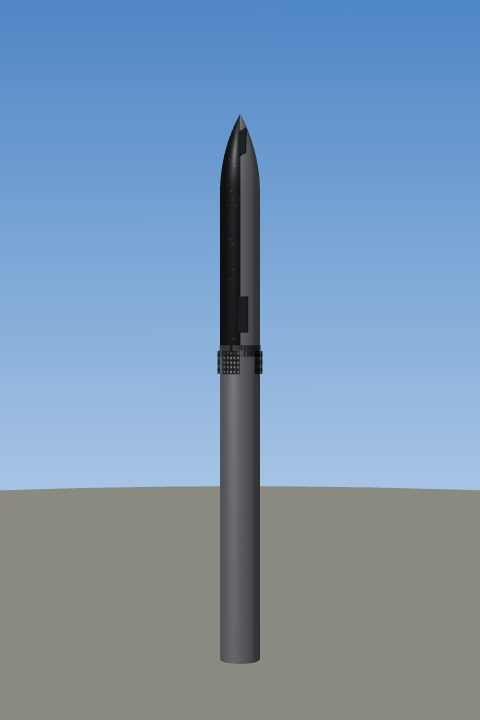
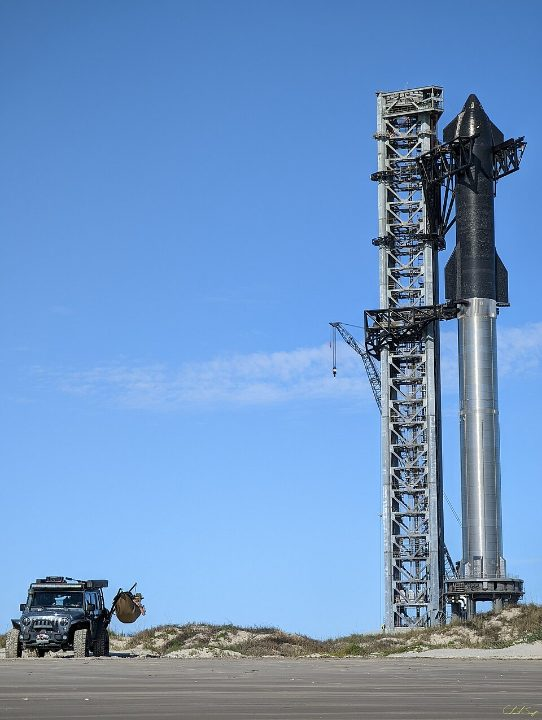
E03: photographs of the real vehicles in the placement test, credited
Claude-Session: https://claude.ai/code/session_01F6cUih7i5azqa9Aq3Y7ZPe

diff --git a/src/lessons/assessment/bank/basics.ts b/src/lessons/assessment/bank/basics.ts
@@ -9,15 +9,15 @@ const WHICH = T('Which launch vehicle is this?', 'Какая это ракета
 
 export const BASICS: readonly unknown[] = [
   vehicle('b-vehicle-distinct', 6, 1, 'vehicles', WHICH,
-    ['soyuz21a', 'falconheavy', 'starship', 'electron', 'atlasv551', 'pslvxl'],
-    T('Each has a shape of its own: Soyuz its four tapered strap-ons (the Korolev cross when they separate), Falcon Heavy three cores side by side, Starship a stainless-steel ship on a 71 m booster, Electron a slender black 18 m carbon-fibre rocket, Atlas V an orange core with slim white solid boosters, PSLV-XL six long strap-on boosters.',
-      'У каждой свой облик: у «Союза» четыре конических боковых блока («крест Королёва» при разделении), у Falcon Heavy три блока рядом, у Starship корабль из нержавеющей стали на 71-метровом ускорителе, у Electron тонкий чёрный 18-метровый корпус из углепластика, у Atlas V оранжевый центральный блок с тонкими белыми твердотопливными ускорителями, у PSLV-XL шесть длинных стартовых ускорителей.',
-      'แต่ละลำมีรูปทรงเฉพาะ: โซยุซมีบูสเตอร์ด้านข้างทรงเรียวสี่ท่อน (กางเป็น «กางเขนของโคโรเลฟ» ตอนแยกตัว) Falcon Heavy มีแกนสามแกนเรียงกัน Starship เป็นยานเหล็กกล้าไร้สนิมบนบูสเตอร์สูง 71 ม. Electron เป็นจรวดคาร์บอนไฟเบอร์สีดำเรียวสูง 18 ม. Atlas V มีลำตัวหลักสีส้มกับบูสเตอร์เชื้อเพลิงแข็งสีขาวเรียว และ PSLV-XL มีบูสเตอร์ยาวหกท่อน')),
+    ['soyuz21a', 'falconheavy', 'starship', 'electron', 'protonm', 'longmarch5'],
+    T('Each has a shape of its own: Soyuz its four tapered strap-ons (the Korolev cross when they separate), Falcon Heavy three cores side by side, Starship a stainless-steel ship on a 71 m booster, Electron a slender black 18 m carbon-fibre rocket, Proton-M a core ringed by six fuel tanks with their engines, Long March 5 a wide white 5 m core with four 3.35 m boosters.',
+      'У каждой свой облик: у «Союза» четыре конических боковых блока («крест Королёва» при разделении), у Falcon Heavy три блока рядом, у Starship корабль из нержавеющей стали на 71-метровом ускорителе, у Electron тонкий чёрный 18-метровый корпус из углепластика, у «Протона-М» центральный блок в кольце из шести баков с двигателями, у «Чанчжэн-5» широкий белый центральный блок диаметром 5 м с четырьмя ускорителями по 3,35 м.',
+      'แต่ละลำมีรูปทรงเฉพาะ: โซยุซมีบูสเตอร์ด้านข้างทรงเรียวสี่ท่อน (กางเป็น «กางเขนของโคโรเลฟ» ตอนแยกตัว) Falcon Heavy มีแกนสามแกนเรียงกัน Starship เป็นยานเหล็กกล้าไร้สนิมบนบูสเตอร์สูง 71 ม. Electron เป็นจรวดคาร์บอนไฟเบอร์สีดำเรียวสูง 18 ม. Proton-M มีลำตัวหลักล้อมด้วยถังเชื้อเพลิงหกถังพร้อมเครื่องยนต์ และ Long March 5 มีลำตัวหลักสีขาวกว้าง 5 ม. กับบูสเตอร์ 3.35 ม. สี่ท่อน')),
   vehicle('b-vehicle-similar', 6, 2, 'vehicles', WHICH,
-    ['falcon9', 'atlasv551', 'vulcan', 'ariane64', 'h3', 'longmarch5', 'angaraa5', 'longmarch2d'],
-    T('Look at the details: the number and size of the strap-ons (none on Falcon 9, five slim solids on Atlas V 551, four on Ariane 64 and Vulcan VC4, two on H3-22), the fairing\'s width against the core, and the core\'s colour and proportions.',
-      'Смотрите на детали: число и размер боковых ускорителей (у Falcon 9 их нет, у Atlas V 551 пять тонких твердотопливных, у Ariane 64 и Vulcan VC4 по четыре, у H3-22 два), ширину головного обтекателя относительно центрального блока, цвет и пропорции корпуса.',
-      'ให้สังเกตรายละเอียด: จำนวนและขนาดของบูสเตอร์ด้านข้าง (Falcon 9 ไม่มี, Atlas V 551 มีบูสเตอร์เชื้อเพลิงแข็งเรียวห้าท่อน, Ariane 64 และ Vulcan VC4 มีสี่, H3-22 มีสอง) ความกว้างของฝาครอบส่วนหัวเทียบกับลำตัว และสีกับสัดส่วนของลำตัว')),
+    ['falcon9', 'atlasv551', 'vulcan', 'angaraa5', 'longmarch2d', 'protonm'],
+    T('Look at the details: the strap-ons (none on Falcon 9 or Long March 2D, five slim white solids on Atlas V 551, four liquid modules as wide as the core on Angara-A5, six outboard tanks on Proton-M), the colour of the core (white Falcon 9, orange-brown Atlas V and Vulcan — Vulcan\'s wider and shorter), and the fairing\'s width against the core.',
+      'Смотрите на детали: боковые блоки (у Falcon 9 и «Чанчжэн-2D» их нет, у Atlas V 551 пять тонких белых твердотопливных, у «Ангары-А5» четыре жидкостных модуля того же диаметра, что центральный, у «Протона-М» шесть боковых баков), цвет центрального блока (белый у Falcon 9, оранжево-коричневый у Atlas V и Vulcan — у Vulcan он шире и короче) и ширину обтекателя относительно корпуса.',
+      'ให้สังเกตรายละเอียด: บูสเตอร์ด้านข้าง (Falcon 9 และ Long March 2D ไม่มี, Atlas V 551 มีบูสเตอร์เชื้อเพลิงแข็งสีขาวเรียวห้าท่อน, Angara-A5 มีโมดูลเชื้อเพลิงเหลวสี่ท่อนขนาดเท่าลำตัวหลัก, Proton-M มีถังรอบลำตัวหกถัง) สีของลำตัวหลัก (Falcon 9 สีขาว, Atlas V และ Vulcan สีส้มน้ำตาล — Vulcan อ้วนและสั้นกว่า) และความกว้างของฝาครอบส่วนหัวเทียบกับลำตัว')),
   choice('b-karman', 6, 1, K, 'space.boundary',
     T('Where does space conventionally begin?', 'Где условно начинается космос?', 'โดยทั่วไปถือว่าอวกาศเริ่มต้นที่ความสูงเท่าใด'),
     [O(T('At 100 km (the Kármán line)', 'На высоте 100 км (линия Кармана)', 'ที่ 100 กม. (เส้นคาร์มาน)'), true),

diff --git a/src/lessons/assessment/photos.ts b/src/lessons/assessment/photos.ts
@@ -1,0 +1,27 @@
+/**
+ * Where the photographs the "which vehicle is this?" questions show come from
+ * (roadmap E03). All are from Wikimedia Commons under a free licence; the
+ * picture is shown with its author and licence, as CC BY and CC BY-SA ask.
+ * Resized to at most 560 × 720 for the page; public/lessons/vehicles/CREDITS.txt
+ * says the same.
+ */
+export interface PhotoCredit {
+  readonly author: string;
+  readonly license: string;
+  readonly licenseUrl?: string;
+  readonly source: string;
+}
+
+export const VEHICLE_PHOTOS: Readonly<Record<string, PhotoCredit>> = {
+  soyuz21a: { author: 'NASA/Victor Zelentsov', license: 'Public domain', source: 'https://commons.wikimedia.org/wiki/File:Expedition_50_Soyuz_Rollout_(NHQ201611140038).jpg' },
+  falcon9: { author: 'NASA/Joel Kowsky', license: 'Public domain', source: 'https://commons.wikimedia.org/wiki/File:NHQ202210010026_orig.jpg' },
+  falconheavy: { author: 'SpaceX', license: 'CC0', licenseUrl: 'https://creativecommons.org/publicdomain/zero/1.0', source: 'https://commons.wikimedia.org/wiki/File:Falcon_Heavy_cropped.jpg' },
+  starship: { author: 'Hotel Pika', license: 'CC BY-SA 2.0', licenseUrl: 'https://creativecommons.org/licenses/by-sa/2.0', source: 'https://commons.wikimedia.org/wiki/File:Starship_full_stack_with_Jeep.jpg' },
+  electron: { author: 'NASA Kennedy Space Center / Rocket Lab', license: 'Public domain', source: 'https://commons.wikimedia.org/wiki/File:Rocket_Lab_PREFIRE_and_Ice_Launch_(KSC-20240605-PH-RKL01_0004).jpg' },
+  atlasv551: { author: 'NASA', license: 'Public domain', source: 'https://commons.wikimedia.org/wiki/File:Atlas_V_551_with_New_Horizons_on_Launch_Pad_41.jpg' },
+  vulcan: { author: 'NASA/Ben Smegelsky', license: 'Public domain', source: 'https://commons.wikimedia.org/wiki/File:Vulcan_Centaur_rollout_(Peregrine)_(cropped).jpg' },
+  longmarch5: { author: 'Xiaojun Wang, China Academy of Launch Vehicle Technology', license: 'CC BY 4.0', licenseUrl: 'https://creativecommons.org/licenses/by/4.0', source: 'https://commons.wikimedia.org/wiki/File:Long_March_5_rolling_out_at_WSLS.jpg' },
+  angaraa5: { author: 'Russian Ministry of Defense', license: 'CC BY 4.0', licenseUrl: 'https://creativecommons.org/licenses/by/4.0', source: 'https://commons.wikimedia.org/wiki/File:Launch_of_Angara-A5_from_Plesetsk_Cosmodrome_(2021-12-28)_2.jpg' },
+  longmarch2d: { author: 'Cristóbal Alvarado Minic', license: 'CC BY 2.0', licenseUrl: 'https://creativecommons.org/licenses/by/2.0', source: 'https://commons.wikimedia.org/wiki/File:Long_March_2D_launching_VRSS-1.jpg' },
+  protonm: { author: 'alexpgp', license: 'CC BY-SA 2.0', licenseUrl: 'https://creativecommons.org/licenses/by-sa/2.0', source: 'https://commons.wikimedia.org/wiki/File:On_the_launch_pad.jpg' },
+};

diff --git a/src/ui/lessons/assessment-dialog.ts b/src/ui/lessons/assessment-dialog.ts
@@ -10,6 +10,7 @@
  */
 import { getLang, t } from '../../i18n';
 import { vehicleById } from '../../data/vehicles';
+import { VEHICLE_PHOTOS, type PhotoCredit } from '../../lessons/assessment/photos';
 import { DATASET_IDS, FLIGHT_DATA, questionBank } from '../../lessons/assessment/bank';
 import { DOMAIN_ORDER, TEST_LENGTH, drawTest, newSeed, nextKind } from '../../lessons/assessment/draw';
 import { CHART_COLOURS, chartSvg, radarSvg } from '../../lessons/assessment/figures';
@@ -72,6 +73,18 @@ export function openAssessment(host: AssessmentHost): void {
   const view = new AssessmentView(host, d);
   view.start();
   if (!d.open) d.showModal();
+}
+
+/** A photograph's author and licence, as CC BY and CC BY-SA ask, linked to its page on Commons. */
+function photoCredit(credit: PhotoCredit): HTMLElement {
+  const line = el('p', 'small assess-credit');
+  const link = el('a');
+  link.href = credit.source;
+  link.target = '_blank';
+  link.rel = 'noopener';
+  link.textContent = t('assess.photoCredit', { author: credit.author, license: credit.license });
+  line.append(link);
+  return line;
 }
 
 class AssessmentView {
@@ -150,6 +163,8 @@ class AssessmentView {
       img.src = `${base}lessons/vehicles/${f.vehicleId}.jpg`;
       img.alt = t('assess.vehicleAlt');
       box.append(img);
+      // the author and the licence would give the answer away (SpaceX, CALT…): named in the review
+      box.append(el('figcaption', 'assess-credit', t('assess.photoCreditLater')));
       return box;
     }
     if (f.kind === 'chart') {
@@ -397,6 +412,8 @@ class AssessmentView {
           : t('assess.misconceptionGeneric', { area: t(`assess.domain.${q.domain}`) })));
       }
       li.append(el('p', 'small', localText(q.explanation)));
+      const credit = q.type === 'vehicle' ? VEHICLE_PHOTOS[p.vehicle!] : undefined;
+      if (credit) li.append(photoCredit(credit));
       const lessons = (q.lessons ?? []).map((id) => this.host.lessons().find((l) => l.id === id)).filter((l): l is Lesson => !!l);
       if (lessons.length) li.append(el('p', 'small', t('assess.relatedLessons', { list: lessons.map((l) => `${lessonNumber(l)} ${localText(l.title)}`).join(', ') })));
       list.append(li);

diff --git a/tests/assessment.test.ts b/tests/assessment.test.ts
@@ -13,6 +13,7 @@ import { DOMAIN_PREREQUISITES, domainLevel, gradeQuestion, numericExpected, scor
 import { BUILTIN_LESSONS } from '../src/lessons/catalog';
 import { DOMAINS, type Domain } from '../src/lessons/types';
 import type { Answer, AssessmentAttempt, PreparedQuestion, Question } from '../src/lessons/assessment/types';
+import { VEHICLE_PHOTOS } from '../src/lessons/assessment/photos';
 import { readQuestion, type FileIssue } from '../src/lessons/lesson-file';
 
 const CYRILLIC = /\p{Script=Cyrillic}/u;
@@ -101,6 +102,12 @@ describe('the question bank', () => {
   it('has a picture of every vehicle a question can show', () => {
     const pictures = Object.keys(import.meta.glob('../public/lessons/vehicles/*.jpg')).map((p) => p.replace(/^.*\/(.+)\.jpg$/, '$1'));
     for (const q of BUILTIN_QUESTIONS) if (q.type === 'vehicle') for (const v of q.vehicles) expect(pictures, `${q.id}: ${v}`).toContain(v);
+    // every photograph is credited, and every credit has its photograph
+    expect(Object.keys(VEHICLE_PHOTOS).sort()).toEqual([...pictures].sort());
+    for (const [id, c] of Object.entries(VEHICLE_PHOTOS)) {
+      expect(c.source, id).toMatch(/^https:\/\/commons\.wikimedia\.org\/wiki\/File:/);
+      if (/^CC BY/.test(c.license)) expect(c.licenseUrl, id).toMatch(/^https:\/\/creativecommons\.org\//);
+    }
   });
 
   it('checks the numbers the charts are asked about: max-Q at about T+50 s, MECO later with an engine out', () => {

diff --git a/src/i18n/th.ts b/src/i18n/th.ts
@@ -1838,7 +1838,9 @@ export const th: Record<string, string> = {
   'assess.confidence.guess': 'เดา',
   'assess.confidence.unsure': 'ไม่แน่ใจ',
   'assess.confidence.sure': 'มั่นใจ',
-  'assess.vehicleAlt': 'จรวดนำส่งตามที่โปรแกรมนี้วาด',
+  'assess.vehicleAlt': 'ภาพถ่ายจรวดนำส่ง',
+  'assess.photoCredit': 'ภาพ: {author} · {license} · Wikimedia Commons',
+  'assess.photoCreditLater': 'ภาพ: Wikimedia Commons สัญญาอนุญาตเสรี — ระบุชื่อผู้ถ่ายไว้ในหน้าเฉลย',
   'assess.axisTime': 't, วินาที',
   'assess.chartCaption': 'บันทึกจากเที่ยวบินในโปรแกรมนี้: {flight}',
   'assess.flight.f9-leo': 'Falcon 9 สู่วงโคจร 500 กม.',

diff --git a/src/i18n/ru.ts b/src/i18n/ru.ts
@@ -1837,7 +1837,9 @@ export const ru: Record<string, string> = {
   'assess.confidence.guess': 'Угадываю',
   'assess.confidence.unsure': 'Не уверен(а)',
   'assess.confidence.sure': 'Уверен(а)',
-  'assess.vehicleAlt': 'Ракета-носитель так, как её изображает симулятор',
+  'assess.vehicleAlt': 'Фотография ракеты-носителя',
+  'assess.photoCredit': 'Фото: {author} · {license} · Wikimedia Commons',
+  'assess.photoCreditLater': 'Фото: Wikimedia Commons, свободная лицензия — автор указан в разборе',
   'assess.axisTime': 't, с',
   'assess.chartCaption': 'Записано в полёте в этом симуляторе: {flight}',
   'assess.flight.f9-leo': 'Falcon 9 на орбиту 500 км',

diff --git a/src/i18n/en.ts b/src/i18n/en.ts
@@ -1858,7 +1858,9 @@ export const en: Record<string, string> = {
   'assess.confidence.guess': 'Guessing',
   'assess.confidence.unsure': 'Not sure',
   'assess.confidence.sure': 'Sure',
-  'assess.vehicleAlt': 'A launch vehicle as this simulator draws it',
+  'assess.vehicleAlt': 'A photograph of a launch vehicle',
+  'assess.photoCredit': 'Photo: {author} · {license} · Wikimedia Commons',
+  'assess.photoCreditLater': 'Photo: Wikimedia Commons, free licence — its author is named in the review',
   'assess.axisTime': 't, s',
   'assess.chartCaption': 'Recorded from a flight in this simulator: {flight}',
   'assess.flight.f9-leo': 'Falcon 9 to a 500 km orbit',

diff --git a/src/ui/lessons/lessons.css b/src/ui/lessons/lessons.css
@@ -197,3 +197,4 @@ dialog.assess-dialog { max-width: 1180px; }
   .assess-question, .assess-result { grid-template-columns: 1fr; }
   .lesson-btn .lesson-btn-label { display: none; }
 }
+.assess-credit a { color: inherit; }
